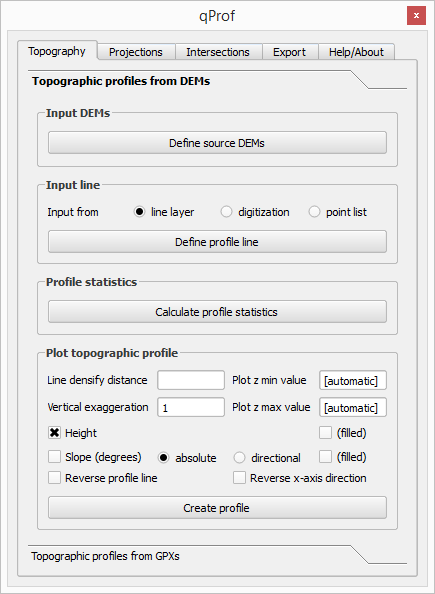
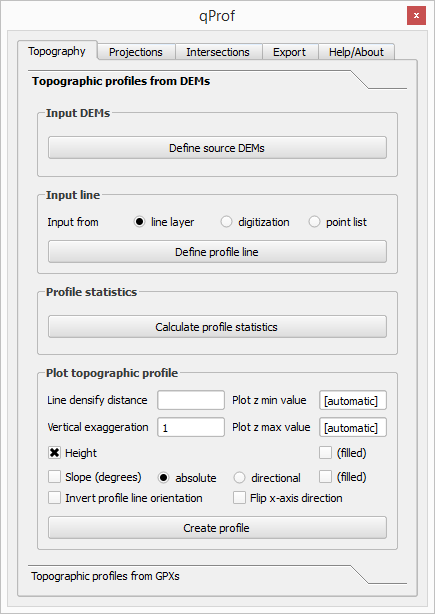
minor gui and help changes

Changed region(s): [[0.0598, 0.2727, 0.8966, 0.9697], [0.0299, 0.0, 0.9862, 0.2424], [0.8368, 0.9394, 0.9264, 0.9697]]

diff --git a/help/help.html b/help/help.html
@@ -69,8 +69,8 @@
 		<li>from one or more DEMs and a line element, digitized or stored in a layer;
 		<li>directly from a GPX file storing track points.</li>
 	</ol>
-	In the former case, data sources can be projected in different CRS, while the <u>created profile will be
-	in the project CRS</u>.
+	In the former case, data sources can be projected in different CRS, while the
+	<u>created profile will be in the assigned project CRS</u>.
 	<br />In the latter case, i.e. when creating a profile from a GPX file, the original latitude-longitude values are automatically converted
 	to cartesian metric values, and from those the topographic profile is constructed.
 </div>
@@ -78,7 +78,7 @@
 <h3>2.1 Topographic profile creation from DEM(s)</h3>
 
 <div>One or more DEM(s) sources have to be defined, as well a source profile line. The line can derive from a source line layer,
-a to-digitize line or a list of points.</div>
+a on-the-fly-digitized line or a list of points.</div>
 
 <br />
 <div>
@@ -90,40 +90,58 @@ a to-digitize line or a list of points.</div>
 <br />
 <div>
 	When directly digitizing a line in the map, you add points wtih left clicks, and stops a line with a right click.
-
+</div>
+<br />
+<div>
+	It is also possible to define the profile as a list point coordinates.
+	Each point is defined by a x-y coordinates pair, comma-separated, on a single row, for instance:
+	<br /><i>549242.7, 242942.2</i>
+	<br /><i>578370.3, 322634.5</i>
+</div>
+<br />
 <div style="text-align:center;margin: 20px;font-size: 90%;font-style:italic;">
 	<img src="images/Fig_01.png" style="align:middle; max_width: 80%"/>
 	<br /><br />Fig. 1. The plugin interface for topographic profile creation from DEM(s).
 </div>
-
-	</div>
 <br />
 <div>
-	It is possible to calculate the profile elevation statistics, that can be used as a help in the definition of the
-	profile plot minimum and maximum elevations. Otherwise, automatic values will be applied.
+	The elevation statistics along the profile for each chosen DEM may be calculate with the "<i>Calculate profile statistics</i>" button.
+	These statistics can be used as a help in the definition of the profile plot minimum and maximum elevations ("<i>plot z min value</i>"
+	and "<i>plot z max value</i>" options). Otherwise, automatic values will be applied.
 </div>
 <br />
-<div>You may define the 'Line densify distance', i.e. the distance between consecutive sampling point automatically added
-when the original vertices of the used path have distances larger than this value.
-It is advisable to use a value comparable to the resolution of the used DEM,
-for instance 30 m for Aster DEMs. A suggested value is added automatically based on the resolution
-of the DEM with the highest spatial resolution.
+<div>
+	You may define the "<i>Line densify distance</i>" option, i.e. the distance between consecutive sampling point automatically added
+	when the original vertices of the used path have distances larger than this value.
+	It is advisable to use a value comparable to the resolution of the used DEM,
+	for instance 30 m for Aster DEMs. A suggested value is added automatically based on the resolution
+	of the DEM with the highest spatial resolution.
     </div>
 <br />
-<div>The profile can be swap around the horizontal (x) axis or on the profile line.</div>
-
+<div>
+	By using "<i>Invert profile line orientation</i>", the profile line will have its orientation inverted, i.e., the start will become
+	the end and the former end will become the profile start.
+	<br />With the option "<i>Flip x-axis direction</i>", the start of the x-axis in the plot will be at the right, not at the left,
+	so that distances will increase from left to right.
+</div>
 <br />
-<br />After having calculated the profile, you can plot its elevations and slopes (as degrees), absolute or relative,
-and save the results as a csv file, a 2D point shapefile or a 3D line shapefile.
+<div>
+	The profile plot is created by using the "<i>Create profile</i>" button. Sometimes the plot creation may require more than just a few
+	seconds, so please be patient... ;)
+</div>
 <br />
-
 <div style="text-align:center;margin: 20px;font-size: 90%;font-style:italic;">
 	<img src="images/Fig_02.png" style="align:middle; max_width: 80%"/>
 	<br /><br />Fig. 2. Topographic profile extracted in the eastern border of Mt. Alpi zone (southern Italy).
 </div>
-
+<br />
 <h3>2.2 Topographic profile creation from GPX</h3>
-
+<div>
+	Topographic pofiles can be created also using as a source GPX files.
+	Beware that in the current version, profile lines with only two points (start and end points) may be used for geological
+	data projections and intersections. So if you just want to create a topographic profile, GPX profile sources are fine.
+	In future releases, the only-two-points constraint for geological intersections should be removed.
+</div>
 <div style="text-align:center;margin: 20px;font-size: 90%;font-style:italic;">
 	<img src="images/Fig_03.png" style="align:middle; max_width: 80%"/>
 	<br /><br />Fig. 3. The plugin interface for topographic profile creation from GPX files.
@@ -215,22 +233,24 @@ be saved in a text file and loaded for applying them to further plots.
 the output geometric formats can be line or point. The exported data CRS will be the same CRS defined for
 the QGis project.
 </div>
-
+<br />
+<div>Note: the slope is saved as relative (positive when upward, negative when downward), even if plotted as absolute.
+To change to absolute value, apply the absolute function on the relative field in a GIS or spreadsheet software.
+	</div>
+<br />
 <div style="text-align:center;margin: 20px;font-size: 90%;font-style:italic;">
 	<img src="images/Fig_12.png" style="align:middle; max_width: 80%"/>
 	<br /><br />Fig. 12. The plugin interface for result export.
 </div>
 
 
-<br /><br />Note: the slope is saved as relative (positive when upward, negative when downward), even if plotted as absolute. To change to aboslute value,
-apply the absolute function on the relative field in a GIS or spreadsheet software.
-<br />
+
 <br />
 <br />
 <div style="font-size: 85%; font-style: italic;">
 -----
 <br /><br /><br />
-Doc version 2016-04-16, by Mauro Alberti - <a href="mailto:alberti.m65@gmail.com">alberti.m65@gmail.com</a>
+Doc version 2016-04-17, by Mauro Alberti - <a href="mailto:alberti.m65@gmail.com">alberti.m65@gmail.com</a>
 </div>
 
 <br /><br /><br /><br />

diff --git a/qProf_QWidget.py b/qProf_QWidget.py
@@ -253,10 +253,10 @@ class qprof_QWidget(QWidget):
         self.DEM_plot_slope_filled_checkbox = QCheckBox(self.tr("(filled)"))
         plotDEM_Layout.addWidget(self.DEM_plot_slope_filled_checkbox, 3, 3, 1, 1)
  
-        self.swap_profile_horiz_checkbox = QCheckBox(self.tr("Reverse profile line"))
+        self.swap_profile_horiz_checkbox = QCheckBox(self.tr("Invert profile line orientation"))
         plotDEM_Layout.addWidget(self.swap_profile_horiz_checkbox, 4, 0, 1, 2)
 
-        self.swap_xaxis_checkbox = QCheckBox(self.tr("Reverse x-axis direction"))
+        self.swap_xaxis_checkbox = QCheckBox(self.tr("Flip x-axis direction"))
         plotDEM_Layout.addWidget(self.swap_xaxis_checkbox, 4, 2, 1, 2)
 
                                        
